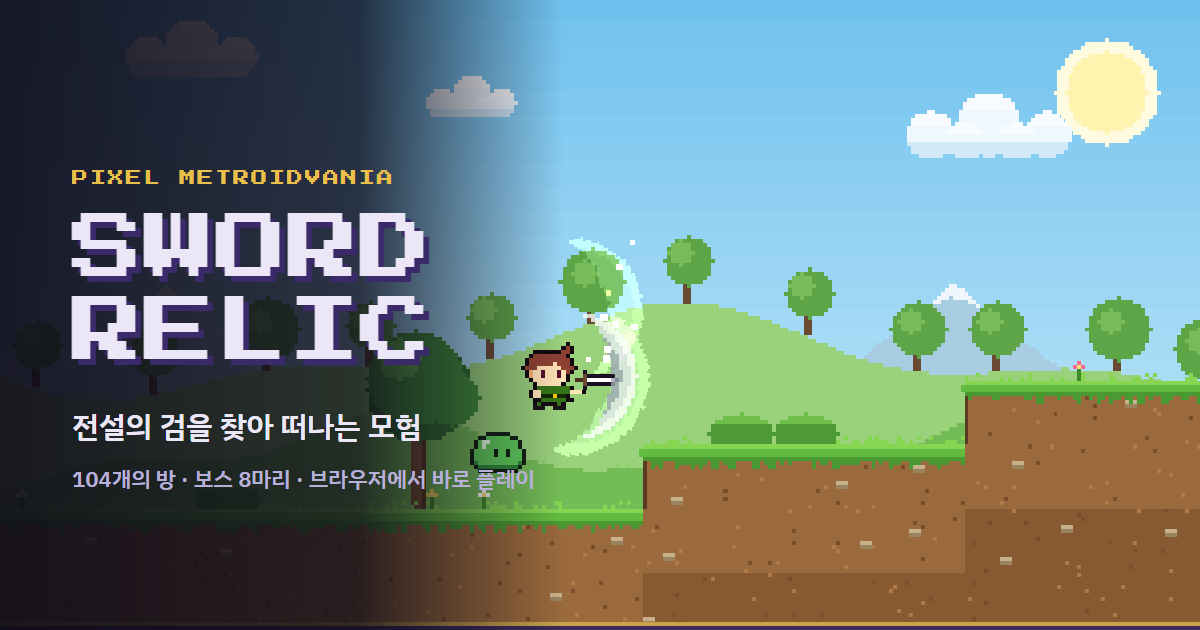
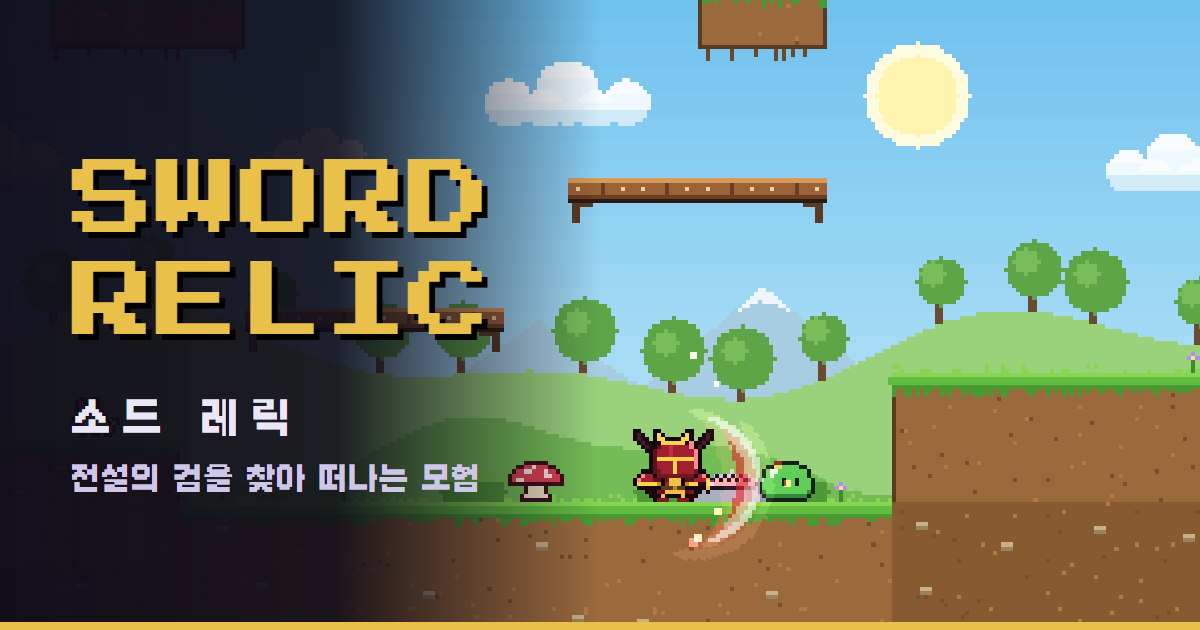
og.png 새로(적월 세트, 방·보스 수 문구 뺌) / 소개 페이지 지역 띠: 스크롤 막대 없이 스와이프·마우스 끌기·양옆 화살표 / 폰: 메뉴 로고와 플레이 버튼 세로 맞춤, 첫 화면 그림을 잘리지 않게 위에 통째로 놓고 빈 높이 줄임

diff --git a/index.html b/index.html
@@ -20,7 +20,7 @@
 <meta property="og:image" content="https://swordrelic.com/og.png">
 <meta property="og:image:width" content="1200">
 <meta property="og:image:height" content="630">
-<meta property="og:image:alt" content="소드 레릭: 초원에서 슬라임에게 검을 휘두르는 주인공">
+<meta property="og:image:alt" content="소드 레릭: 초원에서 붉은 갑옷의 주인공이 슬라임에게 검을 휘두르는 장면">
 <meta name="twitter:card" content="summary_large_image">
 <meta name="twitter:title" content="소드 레릭 (SWORD RELIC) - 픽셀 메트로베니아 웹게임">
 <meta name="twitter:description" content="전설의 검을 찾아 떠나는 모험">
@@ -82,6 +82,8 @@
   <section class="worldsec" aria-labelledby="world-h">
     <h2 id="world-h">하나로 이어진 세계</h2>
     <p class="lede">방에서 방으로, 지역에서 지역으로 걸어서 넘어가요. 새 능력을 얻으면 예전에 지나친 길이 열려요.</p>
+    <div class="worldwrap">
+    <button type="button" class="prev" aria-label="이전 지역" disabled>‹</button><button type="button" class="next" aria-label="다음 지역">›</button>
     <ul class="world" tabindex="0" aria-label="지역 둘러보기 (옆으로 넘겨 보세요)">
       <li><figure><img src="/shots/meadow.png" alt="초원 지역의 게임 화면" loading="lazy"><figcaption><b>초원</b>슬라임이 뛰노는 들판에서 첫걸음을 떼요.</figcaption></figure></li>
       <li><figure><img src="/shots/treetop.png" alt="고목 숲 지역의 게임 화면" loading="lazy"><figcaption><b>고목 숲</b>거대한 나무의 가지와 잎을 밟고 하늘 가까이 올라가요.</figcaption></figure></li>
@@ -92,6 +94,7 @@
       <li><figure><img src="/shots/lava.png" alt="용암 지대 지역의 게임 화면" loading="lazy"><figcaption><b>용암 지대</b>끓는 용암과 불길 사이로 길을 찾아요.</figcaption></figure></li>
       <li class="beyond"><p><b>그 너머</b>용암 지대 뒤에도 길은 이어져요. 어떤 곳인지는 직접 확인해 보세요.</p><a class="btn gold" href="/play/">▶ 떠나기</a></li>
     </ul>
+    </div>
   </section>
 
   <section class="feats" aria-label="게임 특징">
@@ -142,6 +145,20 @@
   </section>
 </main>
 
+<script>
+/* 지역 띠: 화살표로 한 칸씩, 마우스로 끌어서 넘기기 (손가락 스와이프는 브라우저가 알아서) */
+(function(){var w=document.querySelector('.world'),p=document.querySelector('.worldwrap .prev'),n=document.querySelector('.worldwrap .next');if(!w)return;
+  var step=function(){return w.querySelector('li').getBoundingClientRect().width+16};
+  var sync=function(){p.disabled=w.scrollLeft<8;n.disabled=w.scrollLeft>w.scrollWidth-w.clientWidth-8};
+  p.onclick=function(){w.scrollBy({left:-step(),behavior:'smooth'})};n.onclick=function(){w.scrollBy({left:step(),behavior:'smooth'})};
+  w.addEventListener('scroll',sync,{passive:true});sync();
+  var x0=null,s0=0,moved=0;
+  w.addEventListener('pointerdown',function(e){if(e.pointerType!=='mouse'||e.button)return;x0=e.clientX;s0=w.scrollLeft;moved=0});
+  addEventListener('pointermove',function(e){if(x0===null)return;moved=Math.abs(e.clientX-x0);if(moved>4)w.classList.add('drag');w.scrollLeft=s0-(e.clientX-x0)});
+  addEventListener('pointerup',function(){if(x0===null)return;x0=null;w.classList.remove('drag')});
+  w.addEventListener('click',function(e){if(moved>4){e.preventDefault();e.stopPropagation()}},true);   // 끌다가 놓을 때 링크가 눌리지 않게
+})();
+</script>
 <footer>
   <p><a href="/guide/">가이드</a><a href="/news/">업데이트 소식</a><a href="/download/">다운로드</a><a href="/save/">세이브 옮기기</a><a href="/journal/">모험 수첩</a></p>
   <p><a href="/about/">소개·문의</a><a href="/privacy/">개인정보처리방침</a></p>

diff --git a/src/site.css b/src/site.css
@@ -208,5 +208,28 @@ footer a{display:inline-block;white-space:nowrap;margin:2px 8px}
 .newsline a{margin-right:8px;font:700 15px var(--dot)}
 /* 첫 그림도 차례가 지나면 사라져야 다음 지역과 겹쳐 보이지 않음 (처음엔 바로 보이게 따로 시작) */
 .hero-bg img:first-child{animation:pass0 35s infinite}
-@keyframes pass0{0%,14.3%{opacity:.38}17.3%,97%{opacity:0}100%{opacity:.38}}
+@keyframes pass0{0%,14.3%{opacity:var(--on)}17.3%,97%{opacity:0}100%{opacity:var(--on)}}
 @media (prefers-reduced-motion:reduce){.hero-bg img:first-child{animation:none}}
+
+/* 지역 띠: 스크롤 막대 없이 손가락으로 넘기고, 마우스는 끌거나 양옆 화살표 */
+.world{scrollbar-width:none;cursor:grab}
+.world::-webkit-scrollbar{display:none}
+.world.drag{cursor:grabbing;scroll-snap-type:none;user-select:none}
+.world img{-webkit-user-drag:none;user-select:none}
+.worldwrap{position:relative}
+.worldwrap button{position:absolute;top:calc(50% - 30px);z-index:2;width:44px;height:44px;padding:0;font:700 22px var(--dot);color:#1a1206;background:var(--gold);border:2px solid #000;box-shadow:3px 3px 0 #000;cursor:pointer}
+.worldwrap button:disabled{opacity:0;pointer-events:none}
+.worldwrap .prev{left:-12px}.worldwrap .next{right:-12px}
+@media (hover:none),(max-width:560px){.worldwrap button{display:none}}
+
+/* 폰 첫 화면: 가로로 긴 게임 화면이 양옆으로 잘리지 않게 위쪽에 통째로 놓고, 글은 그 아래로 (빈 높이도 줄임) */
+@media (max-width:560px){
+  .hero{min-height:0;display:block}
+  .hero-bg{position:relative;width:100%;height:48.7vw}
+  .hero-bg img{object-fit:contain;--on:.9}
+  .hero-bg img:first-child{opacity:.9}
+  .hero::after{background:linear-gradient(transparent 32vw,var(--bg) 48.7vw)}
+  .hero-in{margin-top:-3vw;padding:0 16px 76px}
+  .hero h1{font-size:7.6vw}
+  .place{bottom:20px}
+}

diff --git a/src/nav.css b/src/nav.css
@@ -11,6 +11,11 @@
 .topnav .links a:hover{color:var(--ink)}
 .topnav .links a[aria-current=page]{color:var(--gold);border-color:var(--line);background:var(--panel)}
 .topnav .links a.go{color:#1a1206;background:var(--gold);border-color:#000}
-@media (max-width:560px){.topnav{flex-wrap:wrap;gap:6px}.topnav .links{margin-left:0;width:100%}.topnav .links a{padding:4px 8px;font-size:13px}}
-@media (max-width:560px){.topnav .links{flex-wrap:wrap;overflow:visible;gap:4px}.topnav .links a{padding:3px 7px;font-size:13px}}
-@media (max-width:560px){.topnav .links a.go{position:absolute;top:8px;right:16px}}
+/* 폰: 첫 줄에 로고와 ▶ 플레이, 둘째 줄에 나머지 메뉴 (.links를 풀어서 한 flex 안에 놓음) */
+@media (max-width:560px){
+  .topnav{flex-wrap:wrap;gap:6px 6px}
+  .topnav .links{display:contents}
+  .topnav .logo{flex:1 0 calc(100% - 100px)}
+  .topnav .links a{order:3;padding:3px 7px;font-size:13px}
+  .topnav .links a.go{order:2}
+}

diff --git a/play/index.html b/play/index.html
@@ -24,7 +24,7 @@
 <meta property="og:image" content="https://swordrelic.com/og.png">
 <meta property="og:image:width" content="1200">
 <meta property="og:image:height" content="630">
-<meta property="og:image:alt" content="소드 레릭: 초원에서 슬라임에게 검을 휘두르는 주인공">
+<meta property="og:image:alt" content="소드 레릭: 초원에서 붉은 갑옷의 주인공이 슬라임에게 검을 휘두르는 장면">
 <meta name="twitter:card" content="summary_large_image">
 <meta name="twitter:title" content="소드 레릭 (SWORD RELIC) - 픽셀 메트로베니아 웹게임">
 <meta name="twitter:description" content="전설의 검을 찾아 떠나는 모험">

diff --git a/CLAUDE.md b/CLAUDE.md
@@ -20,7 +20,7 @@ npm run build:single  # dist-single/index.html 한 파일 빌드 (Phaser는 CDN)
 - 홈 화면에 추가(PWA): `public/manifest.webmanifest`, 아이콘 `icon-192/512.png`, 서비스 워커 `public/sw.js` (새 파일 먼저 받고 끊기면 저장본, 배포판에서만 등록).
 - 구글 애드센스(ca-pub-8021140742740790, 2026-11-09 신청): 소개 페이지는 머리에 스크립트를 그대로, 나머지 사이트 페이지는 앱(Capacitor·`app:`)이 아닐 때만 넣는 짧은 스크립트, **게임 페이지 /play/에는 넣지 않음**(앱 안 애드센스는 정책 위반, 게임 조작 옆 광고는 실수 클릭 위험). `public/ads.txt`. 새 사이트 페이지를 만들면 같은 스크립트를 머리에.
 - 방문자 통계: Cloudflare Web Analytics (Pages 프로젝트 설정에서 켬, 코드 없음, 쿠키 없음). 보는 곳은 Cloudflare 대시보드.
-- 검색·공유: index.html 머리의 description·og·twitter·JSON-LD, 썸네일 `public/og.png`(1200×630), `public/robots.txt`, `public/sitemap.xml`. 도메인을 바꾸면 이 세 곳의 swordrelic.com을 같이 바꿀 것.
+- 검색·공유: index.html 머리의 description·og·twitter·JSON-LD, 썸네일 `public/og.png`(1200×630, `node tools/og.mjs`로 다시 만듦: 초원에서 적월 세트로 슬라임을 베는 장면 + 제목), `public/robots.txt`, `public/sitemap.xml`. 도메인을 바꾸면 이 세 곳의 swordrelic.com을 같이 바꿀 것.
 - 바뀐 게 생기면: 수정 → `npx vite build`로 빌드 확인 → 직접 해 보기(또는 아래 헤드리스 확인) → 커밋·push.
 
 ## 앱으로 감싸기 (출시 전, 보기용)
